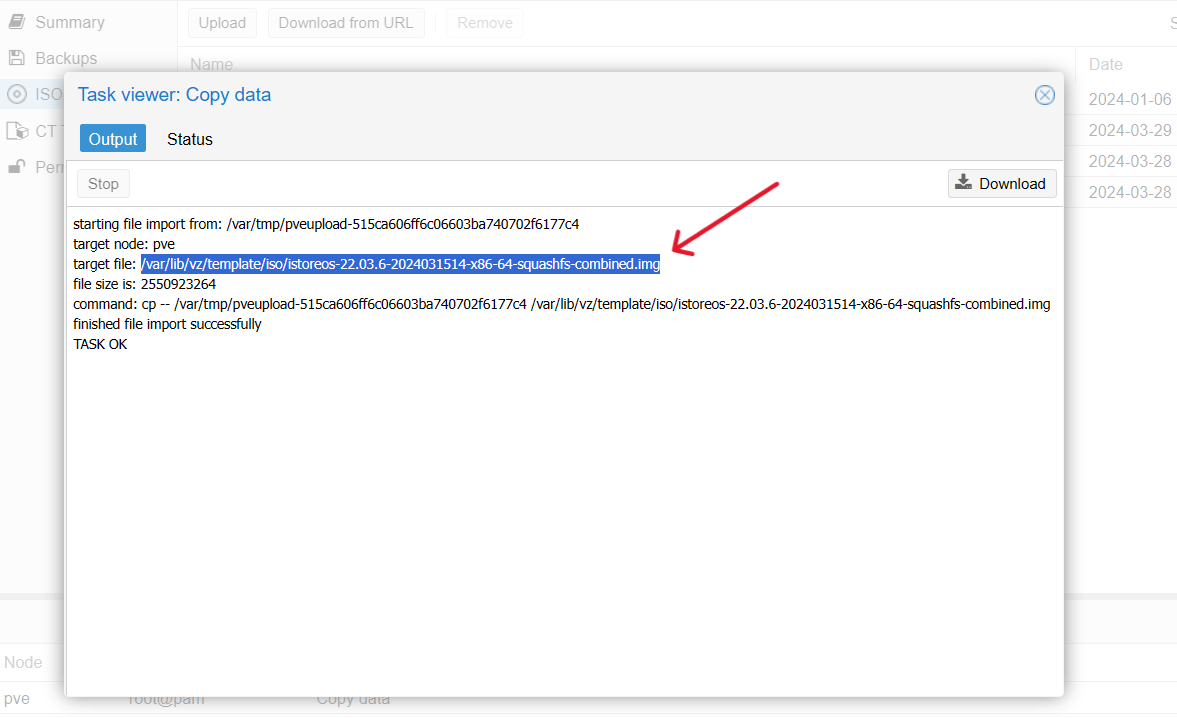
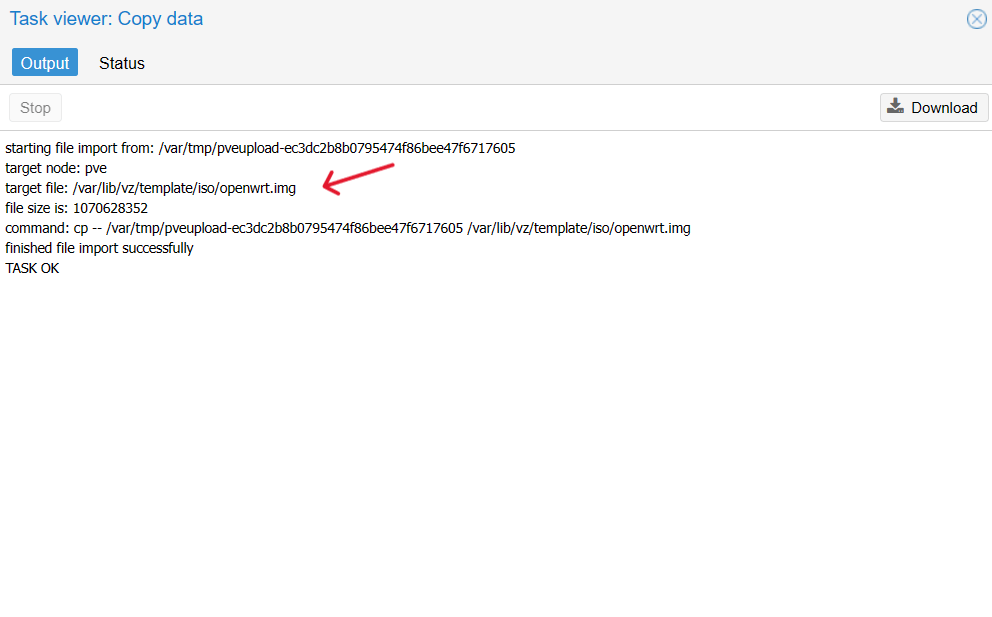
feat: update post images

Changed region(s): [[0.0, 0.0, 1.0, 0.9854], [0.9688, 0.0, 1.0, 0.0616]]

diff --git a/source/_posts/install-and-setup-bypass-router-on-pve.md b/source/_posts/install-and-setup-bypass-router-on-pve.md
@@ -12,15 +12,17 @@ tags:
 
 本文介绍如何在 Proxmox VE 上安装和设置旁路由，以实现在 Proxmox VE 上运行 OpenWrt 虚拟机，从而实现旁路由功能。
 
-## 一、准备工作
+## 一、构建固件
 
 首先你需要准备一台 Proxmox VE 服务器，如果你还没有安装 Proxmox VE，可以参考[官方文档](https://pve.proxmox.com/wiki/Installation)进行安装。
 
-另外你需要下载一个 OpenWrt 的镜像文件，这里我已 [iStoreOS](https://www.istoreos.com) 为例，你也可以选择你喜欢的 OpenWrt 镜像。
+另外你需要下载一个 OpenWrt 的镜像文件，这里我已 [OpenWrt-AI](https://openwrt.ai)为例，这个网站支持自定义编译 OpenWrt 镜像。当你选择 X86-64 平台后，可以直接配置好你需要的插件和设置成旁路由，使用起来很方便。
 
-![istoreos](/images/posts/install-and-setup-bypass-router-on-pve/istoreos.png)
+![openwrt-ai](/images/posts/install-and-setup-bypass-router-on-pve/openwrt-ai.jpeg)
 
-下载完之后你需要解压一下镜像文件。然后我们可以将解压好的 OpenWrt 镜像上传到 Proxmox VE 服务器上，你可以使用PVE自带的ISO上传功能：
+构建完成后将镜像下载下来，我建议再改个名字。
+
+然后我们可以将解压好的 OpenWrt 镜像上传到 Proxmox VE 服务器上，你可以使用PVE自带的ISO上传功能：
 
 ![upload-image](/images/posts/install-and-setup-bypass-router-on-pve/upload-image.png)
 
@@ -28,7 +30,7 @@ tags:
 
 ![uploaded-image](/images/posts/install-and-setup-bypass-router-on-pve/uploaded-image.png)
 
-`/var/lib/vz/template/iso/istoreos-22.03.6-2024031514-x86-64-squashfs-combined.img` 就是镜像文件的位置了，这在后面导入磁盘的时候会用到。
+`/var/lib/vz/template/iso/openwrt.img` 就是镜像文件的位置了，这在后面导入磁盘的时候会用到。
 
 ## 二、创建 OpenWrt 虚拟机
 
@@ -65,10 +67,10 @@ tags:
 然后通过 SSH 登录到 Proxmox VE 服务器，执行以下命令：
 
 ```bash
-qm importdisk 100 /var/lib/vz/template/iso/istoreos-22.03.6-2024031514-x86-64-squashfs-combined.img local-lvm
+qm importdisk 100 /var/lib/vz/template/iso/openwrt.img local-lvm
 ```
 
-你需要将**100**修改为你创建的虚拟机的 ID，`/var/lib/vz/template/iso/istoreos-22.03.6-2024031514-x86-64-squashfs-combined.img` 是你上传的 OpenWrt 镜像文件的位置，`local-lvm` 是你的存储名称，默认`local-lvm`就可以。
+你需要将**100**修改为你创建的虚拟机的 ID，`/var/lib/vz/template/iso/openwrt.img` 是你上传的 OpenWrt 镜像文件的位置，`local-lvm` 是你的存储名称，默认`local-lvm`就可以。
 
 执行完会有这么一段输出：
 
@@ -90,19 +92,11 @@ Successfully imported disk as 'unused0:local-lvm:vm-100-disk-0'
 
 启动之后，你会看到 OpenWrt 的安装界面，按照提示进行安装即可，一般是直接就可以进入系统的。
 
-因为我们做的是旁路由，只有一个lan口，所以启动后旁路由会自动获取上游的IP地址，你可以通过登录自己的主路由查看旁路由的IP地址。
+IP地址是你编译时设置的IP地址，你可以通过浏览器访问旁路由的管理界面进行设置。默认的用户名是 `root`，密码是你编译时设置的密码。
 
-获取到IP地址后，你可以通过浏览器访问旁路由的管理界面，进行设置。默认的用户名和密码是 `root` 和 `password`。
+由于编译时我们已经设置好了旁路由的功能，所以你可以直接使用旁路由了。
 
-## 五、设置旁路由
-
-你可以使用IStoreOS的网络向导来设置旁路由：
-
-![setup-bypass-router](/images/posts/install-and-setup-bypass-router-on-pve/setup-bypass-router.png)
-
-根据向导设置好旁路由后，你就可以使用旁路由了。
-
-## 六、使用旁路由
+## 五、使用旁路由
 
 这里我只介绍如何在单个设备上使用旁路由，如果你想在整个局域网上使用旁路由，你需要在主路由上设置静态路由，将旁路由的流量转发到旁路由上。
 
